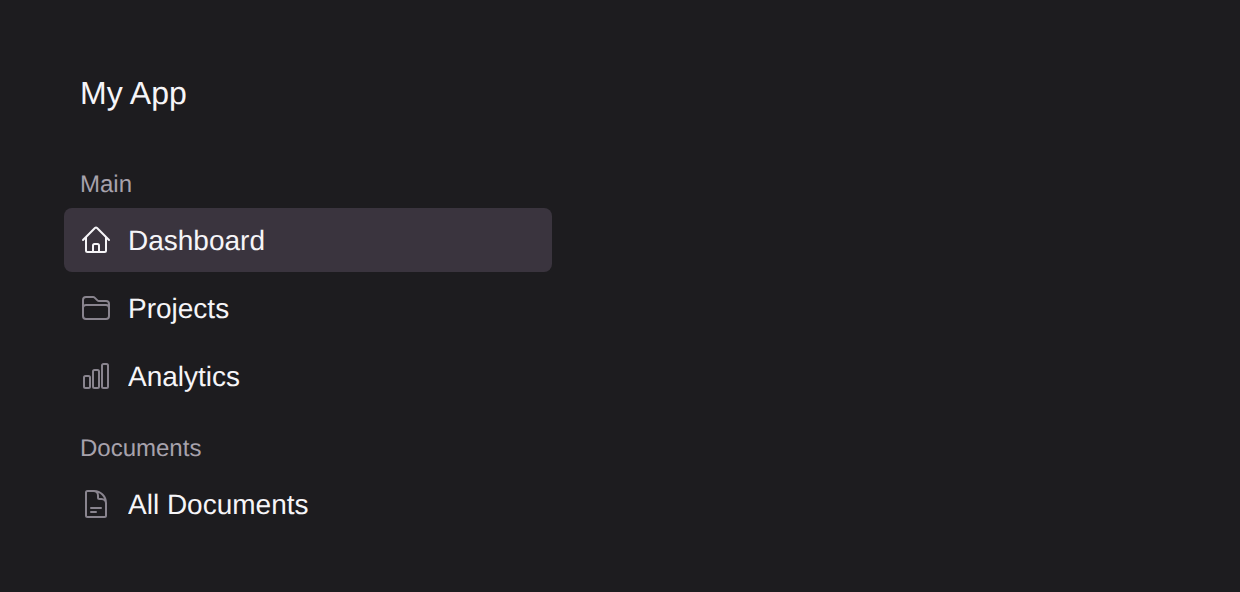
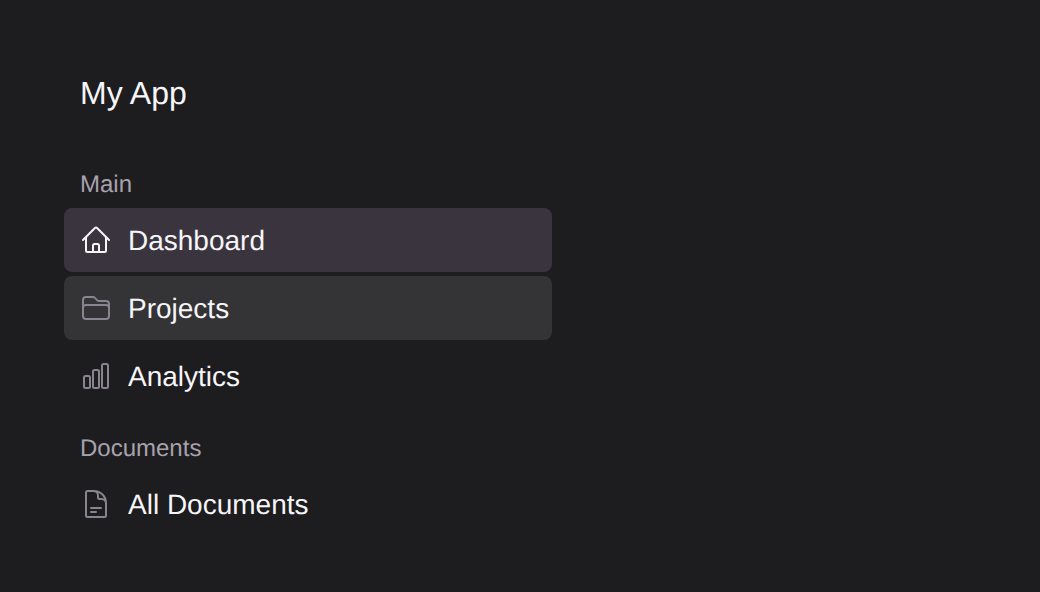
theme-audit: make three evidence shots show the state they claim to
The side-nav shot pressed the item that was already selected, whose fill
comes from the selection token rather than from the press wash, so the
before and after frames were byte-identical. It now presses a plain
item. The radio shot captured a checked radio at rest, whose resting
paint this change does not move — the hover is what moved — so it now
clicks and stays on the control. `clickThenHover` is the one action the
script did not have.

Claude-Session: https://claude.ai/code/session_01JWM57sS5nw57y7RDQZBBhn

diff --git a/docs/design/theme-audit.md b/docs/design/theme-audit.md
@@ -589,9 +589,9 @@ Tecton dark on the left of each pair, the reference render for comparison.
 | §14 `Switch` on, hovered — inert, then the track brightens | ![](theme-audit/switch-hover-before.png) | ![](theme-audit/switch-hover-after.png) | ![](theme-audit/switch-hover-neutral.png) |
 | §19 `TextInput` validation — a solid tinted box bleeding into the field, then a coloured rule and plain coloured helper text | ![](theme-audit/text-input-validation-before.png) | ![](theme-audit/text-input-validation-after.png) | ![](theme-audit/text-input-validation-neutral.png) |
 | §14 `CheckboxInput`, checked, hovered — inert, then the chip brightens a step | ![](theme-audit/checkbox-hover-before.png) | ![](theme-audit/checkbox-hover-after.png) | ![](theme-audit/checkbox-hover-neutral.png) |
-| §14 `RadioList`, checked — the ring, the transparent centre and the near-white dot | ![](theme-audit/radio-before.png) | ![](theme-audit/radio-after.png) | ![](theme-audit/radio-neutral.png) |
+| §14 `RadioList`, checked and hovered — the ring inert, then brightening a step | ![](theme-audit/radio-hover-before.png) | ![](theme-audit/radio-hover-after.png) | ![](theme-audit/radio-hover-neutral.png) |
 | §15 `Stepper` — the accent glyphs at 2.2:1 and the number badge at 2.0:1, then in the adornment lilac | ![](theme-audit/accent-as-ink-before.png) | ![](theme-audit/accent-as-ink-after.png) | ![](theme-audit/accent-as-ink-neutral.png) |
-| §16 `SideNav`, an item held down — the row lifted 20 % under a glyph chosen against the page, then 10 % | ![](theme-audit/pressed-row-before.png) | ![](theme-audit/pressed-row-after.png) | ![](theme-audit/pressed-row-neutral.png) |
+| §16 `SideNav`, "Projects" held down — the row lifted 20 % under a glyph chosen against the page, then 10 % | ![](theme-audit/pressed-row-before.png) | ![](theme-audit/pressed-row-after.png) | ![](theme-audit/pressed-row-neutral.png) |
 | §17 `Banner` — the collapse chevron and the close mark at 1.2:1 on the warning band, then in the band's own ink | ![](theme-audit/banner-ghost-before.png) | ![](theme-audit/banner-ghost-after.png) | ![](theme-audit/banner-ghost-neutral.png) |
 | §18 `Link`, hovered — unchanged, which is what the design asks for | ![](theme-audit/link-hover-before.png) | ![](theme-audit/link-hover-after.png) | ![](theme-audit/link-hover-neutral.png) |
 
